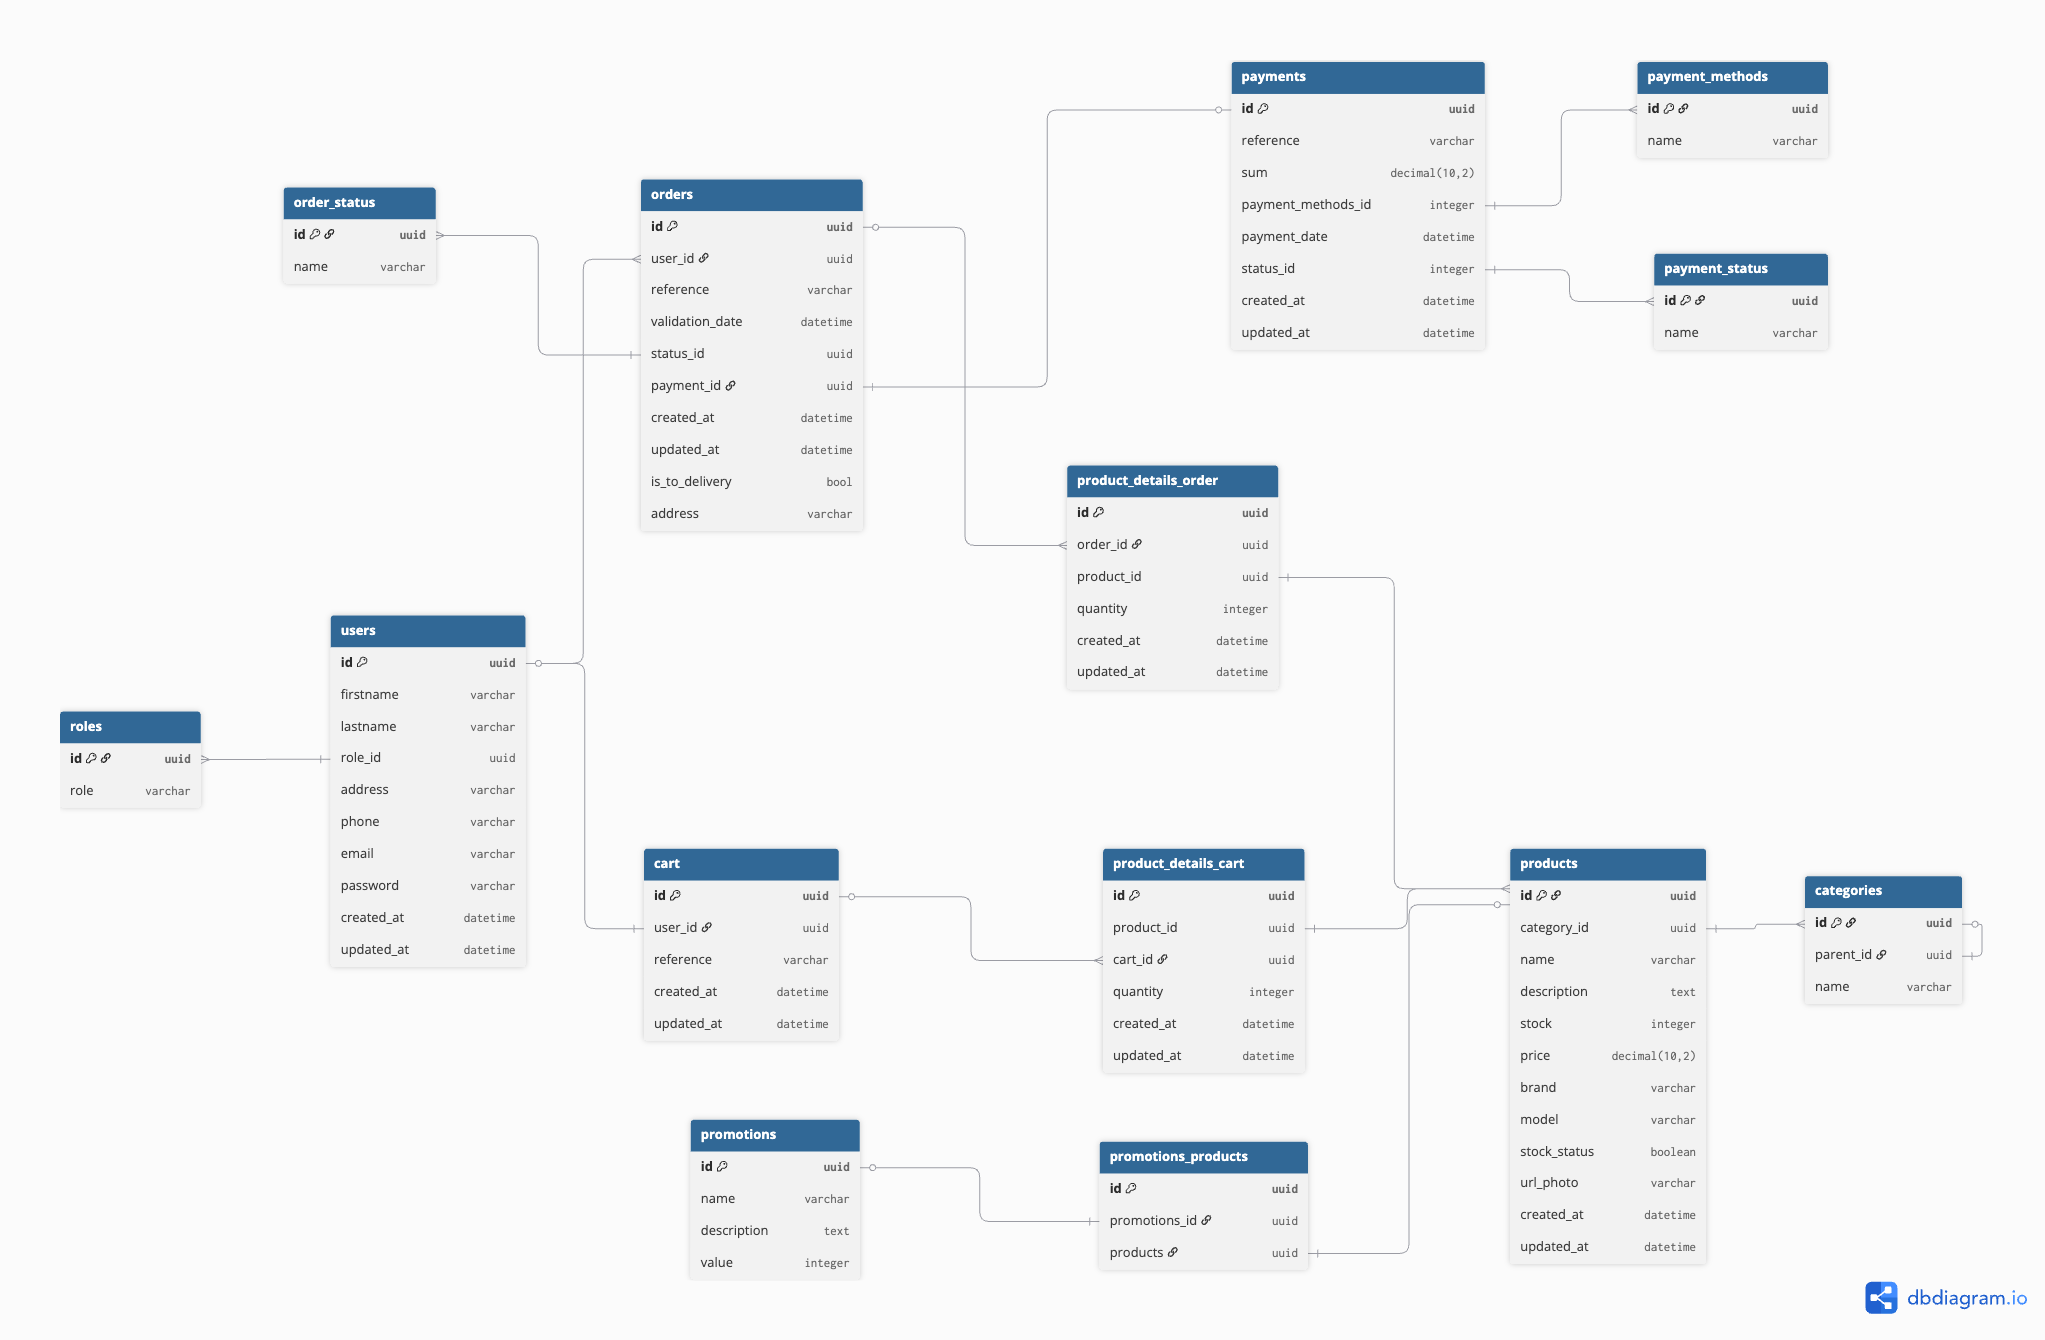
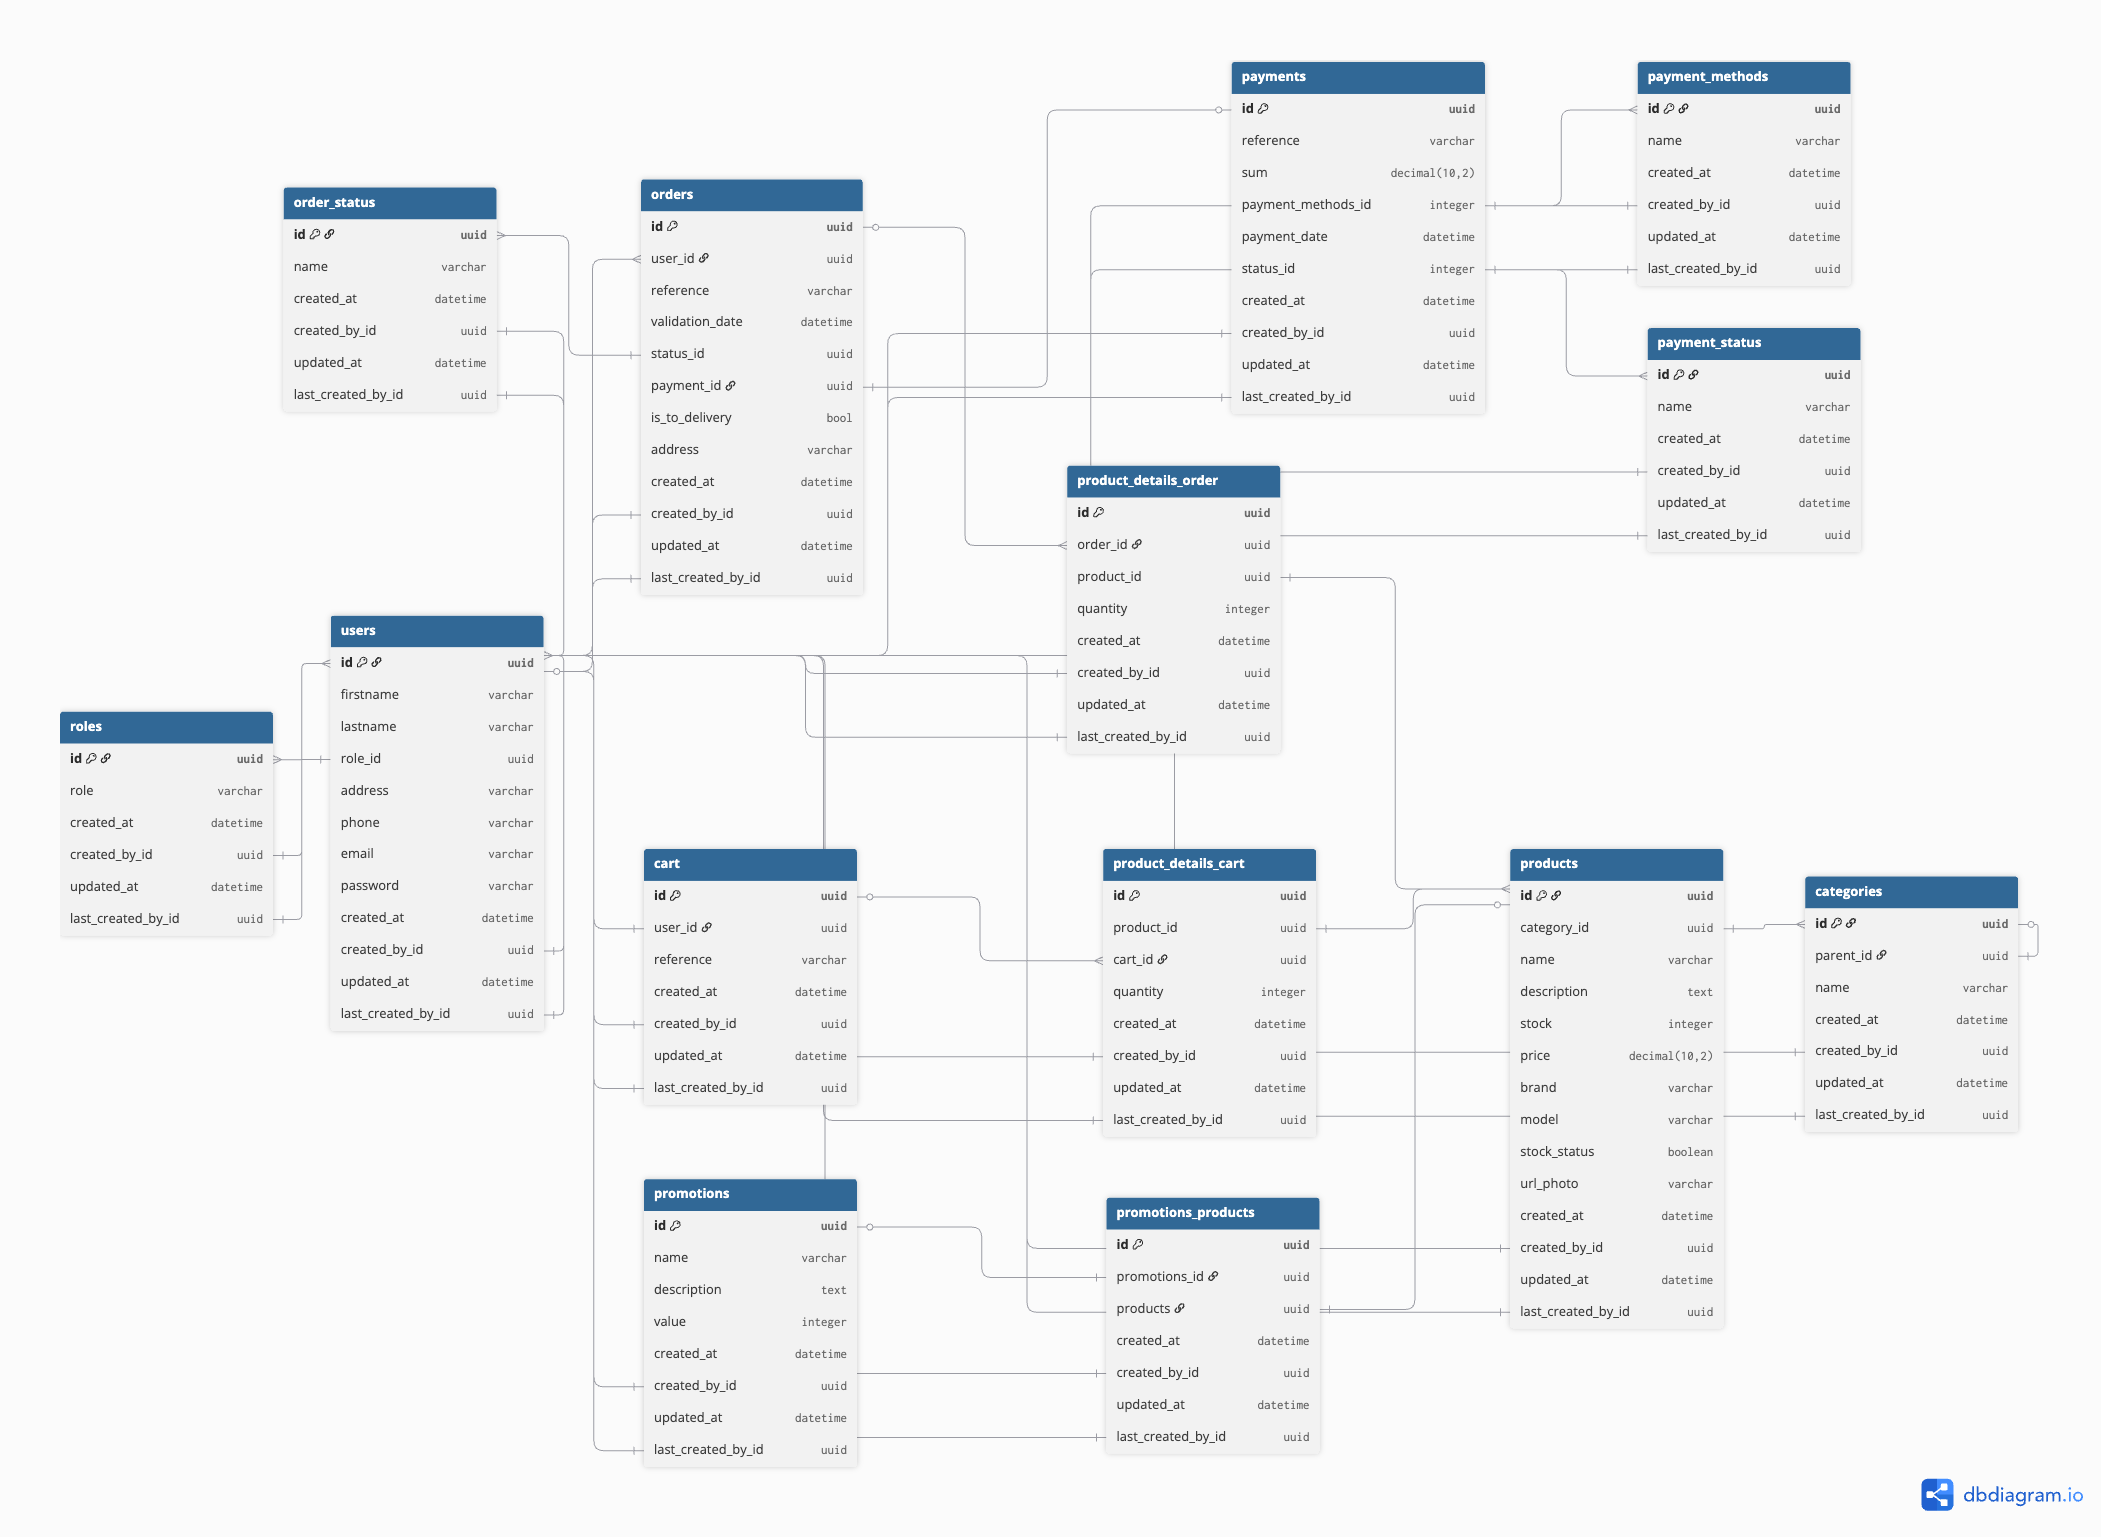
feat(back): add db and entities

diff --git a/src/main/java/com/techzone/ecommerce/entity/Product.java b/src/main/java/com/techzone/ecommerce/entity/Product.java
@@ -1,0 +1,28 @@
+package com.techzone.ecommerce.entity;
+
+import jakarta.persistence.Entity;
+import jakarta.persistence.JoinColumn;
+import jakarta.persistence.ManyToOne;
+import jakarta.persistence.MappedSuperclass;
+import lombok.Getter;
+import lombok.Setter;
+
+@Entity
+@Setter
+@Getter
+public class Product extends BaseEntity {
+    @ManyToOne
+    @JoinColumn(name = "category_id")
+    private Category category;
+    private String name;
+    private String description;
+    private int stock;
+    private double price;
+    private String brand;
+    private String model;
+    private boolean isAvailable;
+    private boolean isInStock;
+    private String urlPhoto;
+    private byte promotionPourcent;
+    private boolean isPromotion;
+}

diff --git a/src/main/java/com/techzone/ecommerce/entity/Order.java b/src/main/java/com/techzone/ecommerce/entity/Order.java
@@ -1,0 +1,25 @@
+package com.techzone.ecommerce.entity;
+
+import jakarta.persistence.*;
+import lombok.Getter;
+import lombok.Setter;
+
+import java.time.LocalDateTime;
+import java.util.List;
+
+@Getter
+@Setter
+@Entity
+@Table(name = "orders")
+public class Order extends BaseEntity {
+    @OneToOne
+    @JoinColumn(name = "user_id")
+    private User user;
+    private LocalDateTime validation_date;
+    private boolean isPayed;
+    private boolean isDelivered;
+    private String address;
+    private String phone;
+    @OneToMany(mappedBy = "order", cascade = CascadeType.ALL)
+    private List<OrderProduct> orderProductList;
+}

diff --git a/src/main/java/com/techzone/ecommerce/entity/OrderProduct.java b/src/main/java/com/techzone/ecommerce/entity/OrderProduct.java
@@ -1,0 +1,22 @@
+package com.techzone.ecommerce.entity;
+
+import jakarta.persistence.Entity;
+import jakarta.persistence.JoinColumn;
+import jakarta.persistence.ManyToOne;
+import lombok.Getter;
+import lombok.Setter;
+
+@Getter
+@Setter
+@Entity
+public class OrderProduct extends BaseEntity {
+    @ManyToOne
+    @JoinColumn(name = "order_id")
+    private Order order;
+    @ManyToOne
+    @JoinColumn(name = "product_id")
+    private Product product;
+    private int quantity;
+    private byte promotionPourcent;
+    private boolean isPromotion;
+}

diff --git a/src/main/java/com/techzone/ecommerce/entity/User.java b/src/main/java/com/techzone/ecommerce/entity/User.java
@@ -1,0 +1,22 @@
+package com.techzone.ecommerce.entity;
+
+import jakarta.persistence.Entity;
+import jakarta.persistence.JoinColumn;
+import jakarta.persistence.ManyToOne;
+import jakarta.persistence.Table;
+import lombok.Getter;
+import lombok.Setter;
+
+@Entity
+@Getter
+@Setter
+@Table(name = "users")
+public class User extends BaseEntity {
+    private String firstname;
+    private String lastname;
+    @ManyToOne
+    @JoinColumn(name = "role_id")
+    private Role role;
+    private String email;
+    private String password;
+}

diff --git a/src/main/java/com/techzone/ecommerce/entity/BaseEntity.java b/src/main/java/com/techzone/ecommerce/entity/BaseEntity.java
@@ -1,0 +1,22 @@
+package com.techzone.ecommerce.entity;
+
+import java.time.LocalDateTime;
+
+import jakarta.persistence.*;
+import lombok.Getter;
+import lombok.Setter;
+
+@Getter
+@Setter
+@MappedSuperclass
+public abstract class BaseEntity {
+    @Id
+    @GeneratedValue(strategy= GenerationType.IDENTITY)
+    private Long id;
+    private LocalDateTime createdAt;
+    private String createdBy;
+    private LocalDateTime lastUpdated;
+    private String lastUpdatedBy;
+
+}
+

diff --git a/src/main/java/com/techzone/ecommerce/entity/CartProduct.java b/src/main/java/com/techzone/ecommerce/entity/CartProduct.java
@@ -1,0 +1,20 @@
+package com.techzone.ecommerce.entity;
+
+import jakarta.persistence.Entity;
+import jakarta.persistence.JoinColumn;
+import jakarta.persistence.ManyToOne;
+import lombok.Getter;
+import lombok.Setter;
+
+@Getter
+@Setter
+@Entity
+public class CartProduct extends BaseEntity{
+    @ManyToOne
+    @JoinColumn(name = "cart_id")
+    private Cart cart;
+    @ManyToOne
+    @JoinColumn(name = "product_id")
+    private Product product;
+    private int quantity;
+}

diff --git a/src/main/java/com/techzone/ecommerce/entity/Category.java b/src/main/java/com/techzone/ecommerce/entity/Category.java
@@ -1,0 +1,18 @@
+package com.techzone.ecommerce.entity;
+
+import jakarta.persistence.Entity;
+import jakarta.persistence.JoinColumn;
+import jakarta.persistence.ManyToOne;
+import jakarta.persistence.MappedSuperclass;
+import lombok.Getter;
+import lombok.Setter;
+
+@Getter
+@Setter
+@Entity
+public class Category extends BaseEntity {
+    @ManyToOne
+    @JoinColumn(name = "parent_id")
+    private Category parent;
+    private String name;
+}

diff --git a/src/main/java/com/techzone/ecommerce/entity/Cart.java b/src/main/java/com/techzone/ecommerce/entity/Cart.java
@@ -1,0 +1,19 @@
+package com.techzone.ecommerce.entity;
+
+import jakarta.persistence.*;
+import lombok.Getter;
+import lombok.Setter;
+
+import java.util.List;
+
+@Getter
+@Setter
+@Entity
+public class Cart extends BaseEntity {
+    @OneToOne
+    @JoinColumn(name = "user_id")
+    private User user;
+
+    @OneToMany(mappedBy = "cart", cascade = CascadeType.ALL)
+    private List<CartProduct> cartProductList;
+}

diff --git a/src/main/java/com/techzone/ecommerce/repository/CartRepository.java b/src/main/java/com/techzone/ecommerce/repository/CartRepository.java
@@ -1,0 +1,9 @@
+package com.techzone.ecommerce.repository;
+
+import com.techzone.ecommerce.entity.Cart;
+import org.springframework.data.jpa.repository.JpaRepository;
+import org.springframework.stereotype.Repository;
+
+@Repository
+public interface CartRepository extends JpaRepository<Cart, Long> {
+}

diff --git a/src/main/java/com/techzone/ecommerce/entity/Role.java b/src/main/java/com/techzone/ecommerce/entity/Role.java
@@ -1,0 +1,11 @@
+package com.techzone.ecommerce.entity;
+
+import jakarta.persistence.*;
+import lombok.Getter;
+
+@Entity
+@Getter
+
+public class Role extends BaseEntity{
+    private String name;
+}

diff --git a/readme.md b/readme.md
@@ -24,8 +24,8 @@ A FINIR
 
 ## Instructions de lancement 
 A FINIR
-Lancement docker: docker build -t e-commerce-app .
-docker run -p 8080:8080 e-commerce-app
+Lancement docker: 
+docker build -t e-commerce-app . && docker run -p 8080:8080 e-commerce-app
 (prérequis, commandes, URL principales)
 
 ## Comptes de test 
